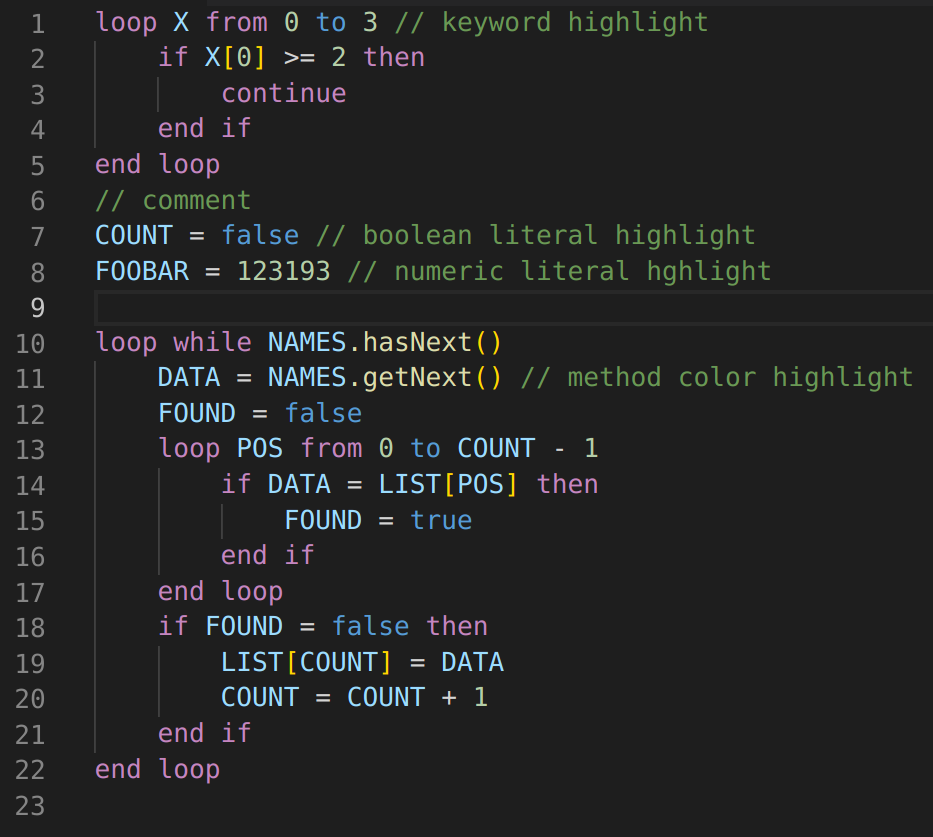
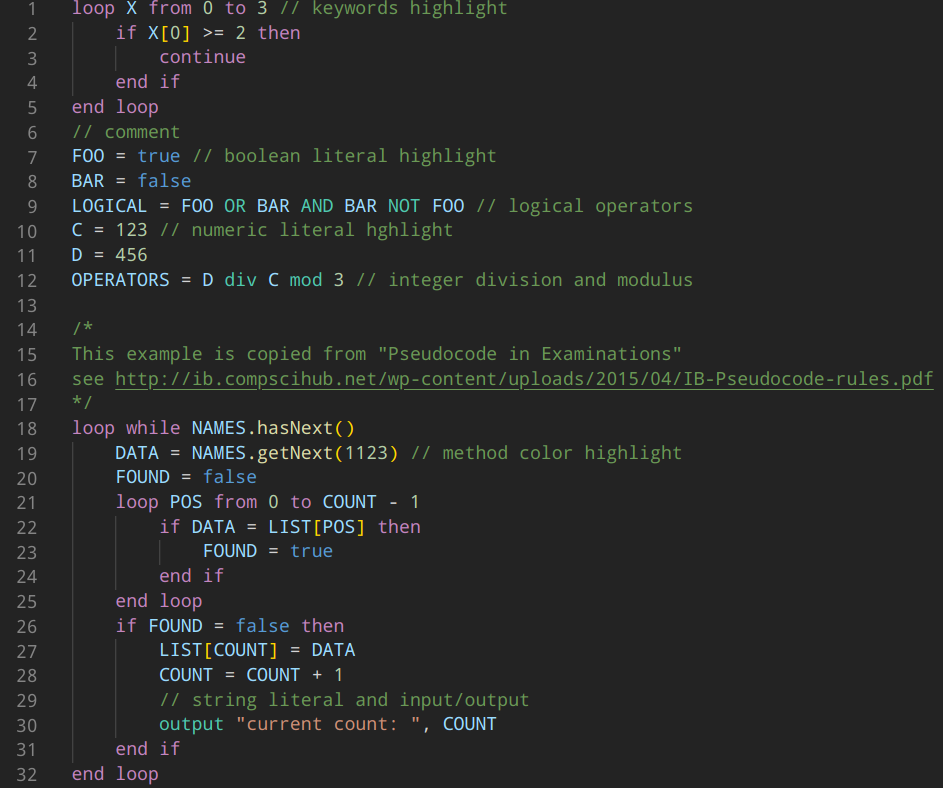
version 0.1.0

Changed region(s): [[0.0, 0.0, 0.9946, 1.0]]

diff --git a/README.md b/README.md
@@ -1,13 +1,17 @@
 # ibcs-pseudocode
 
-This extension provides basic syntax highlight for IB-styled pseudocode as specified in [IB Pseudocode Rules](http://ib.compscihub.net/wp-content/uploads/2015/04/IB-Pseudocode-rules.pdf).
+This extension provides basic syntax highlight for IB-styled pseudocode as specified in [IB Pseudocode Rules](http://ib.compscihub.net/wp-content/uploads/2015/04/IB-Pseudocode-rules.pdf) and [Approved notation for developing pseudocode](https://ib.compscihub.net/wp-content/uploads/2015/04/IB-Pseudocode-rules-more.pdf)
 
 Syntax highlight will be automatically applied to .pseudo files.
 
 ## Features
 
-![demo](https://raw.githubusercontent.com/hanzhi713/ibcs-pseudocode/master/demo-small.png)
+![demo](https://raw.githubusercontent.com/hanzhi713/ibcs-pseudocode/master/demo.png)
 
 ## Requirements
 
 VS Code
+
+## Acknowledgement
+
+[JavaScript tmlanguage definition](https://github.com/microsoft/vscode/blob/master/extensions/javascript/syntaxes/JavaScript.tmLanguage.json)

diff --git a/CHANGELOG.md b/CHANGELOG.md
@@ -1,8 +1,11 @@
 # Change Log
 
-## [Unreleased]
+## [0.1.0]
 
--   No plan
+- Breaking: change the style for `div` and `mod` 
+- Breaking: replace `or`, `not` and `and` with their capitalized counterpart: `OR`, `NOT`, and `AND`
+- Breaking: now the logical operators, `div`, `mod`, `input` and `output` will have the same color
+- Add acknowledgement
 
 ## [0.0.3]
 
